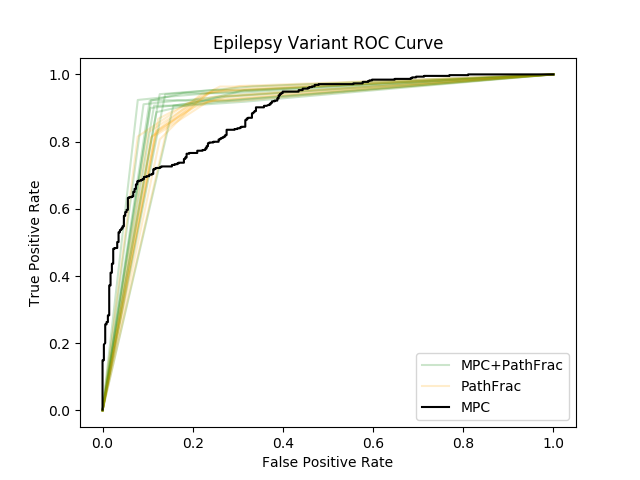
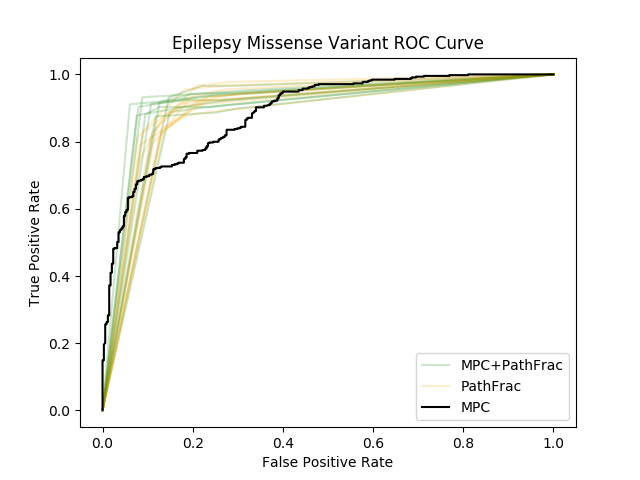
relabel epi roc

Changed region(s): [[0.1562, 0.1562, 0.8125, 0.8125], [0.25, 0.0625, 0.75, 0.125]]

diff --git a/src/scripts/eval_fg.py b/src/scripts/eval_fg.py
@@ -113,7 +113,7 @@ def predict(df_x, out_png):
         else:
             i += 1
     plt.legend(handles, labels, loc=4)
-    plt.title('Epilepsy Variant ROC Curve')
+    plt.title('Epilepsy Missense Variant ROC Curve')
     plt.xlabel('False Positive Rate')
     plt.ylabel('True Positive Rate')
     plt.savefig(out_png)
